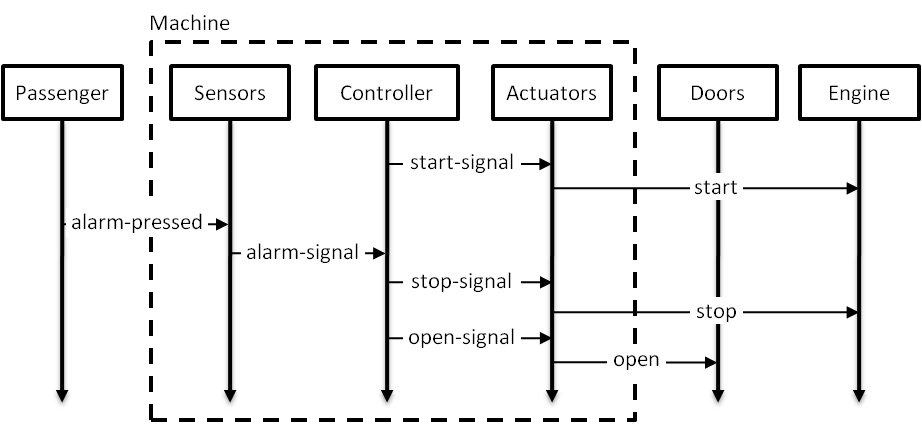
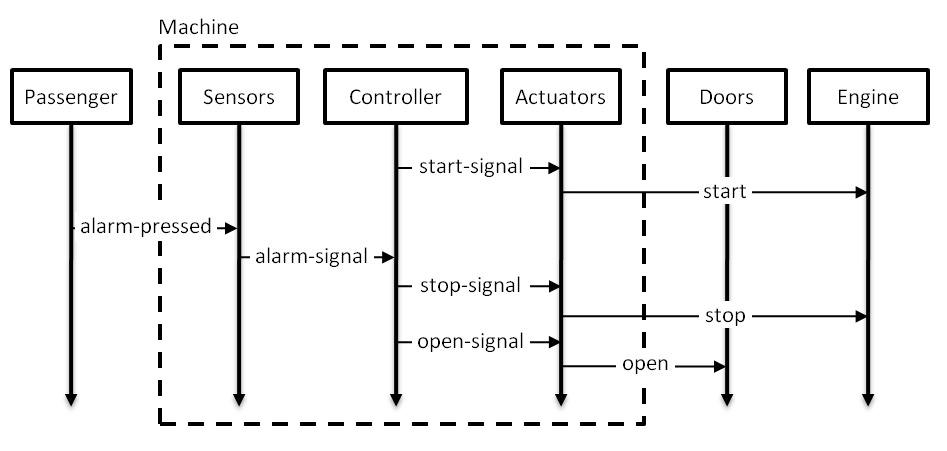
Added an illustration for negative scenarios

Changed region(s): [[0.0, 0.0305, 1.0, 1.0], [0.6681, 0.3052, 0.6985, 0.3357]]

diff --git a/writing/src/2-framework/main.tex b/writing/src/2-framework/main.tex
@@ -10,7 +10,7 @@ We use a simple train system fragment as running example for illustrating concep
 
 \begin{figure}[H]\centering
 \scalebox{0.75}{
-  \includegraphics{src/2-framework/images/train-scenario-all-agents}
+  \includegraphics[trim=2mm 2mm 2mm 2mm, clip]{src/2-framework/images/train-scenario-all-agents}
 }
 \caption{A scenario illustrating a train system stopping in emergency when an alarm is pressed.\label{image:train-scenario-all-agents}}
 \end{figure}
@@ -166,7 +166,15 @@ The first condition is not formalized but simply requires the MSC and the system
 
 \subsection{Negative scenarios}
 
-Positive message sequence charts model \emph{positive} examples of behavior that the system is expected to exhibit. It is often convenient to be able to model the counterpart, that is examples of behavior that the system is expected -- even required -- \emph{not} to exhibit. Such proscribed behaviors are illustrated with negative MSCs~\cite{Uchitel:2004}. A negative MSC is simply a scenario whose last event is proscribed, as depicted by a crossed arrow below a dashed line. An example is given in Fig.~\ref{X}, that shows that the \artifact{Controller} may not open train doors immediately after having started it.
+Positive message sequence charts model \emph{positive} examples of behavior that the system is expected to exhibit. It is often convenient to be able to model the counterpart, that is examples of behavior that the system is expected -- even required -- \emph{not} to exhibit. Such proscribed behaviors are illustrated with negative MSCs~\cite{Uchitel:2004}. A negative MSC is simply a scenario whose last event is proscribed, as depicted by a crossed arrow below a dashed line. An example is given in Fig.~\ref{image:train-negative-scenario}, where the \artifact{Controller} may not open train doors immediately after having started it.
+
+\vspace{0.4cm}
+\begin{figure}[H]\centering
+\scalebox{0.75}{
+  \includegraphics[trim=2mm 2mm 2mm 2mm, clip]{src/2-framework/images/train-negative-scenario}
+}
+\caption{A negative scenario illustrating that the controller may not open doors after having started.\label{image:train-negative-scenario}}
+\end{figure}
 
 More precisely, a negative MSC is a pair $(M,e)$ where $M$ is a positive MSC and $e$ is a single event (given our simplifying assumption, the latter event can simply be denoted by its label $l = label(e)$). The positive scenario $M$ is called the $precondition$ and $e$ the \emph{proscribed event}. The intuitive semantics is that, once the precondition has occurred from the system initial state, $e$ may not be the (very) \emph{next} event in the system. We make this semantics fully precise now. A negative MSC $N = (M,e)$ defines a set of traces as follows:
 
@@ -174,7 +182,7 @@ More precisely, a negative MSC is a pair $(M,e)$ where $M$ is a positive MSC and
 \mathcal{L}(N) = \{~w.l \mid w \in \mathcal{L}(M) \wedge l = label(e) \}
 \end{equation*}
 
-That is, traces of a negative MSC are traces of the precondition (given by definition~\ref{equation:msc-composition}) concatenated with the label of the proscribed event. Note that, such a definition implies that the precondition must occur completely for the proscribed event to be taken into account. In other words, partial orderings between the proscribed event and those in the precondition are not considered. This is the intended meaning of the dashed line separating them~\cite{Uchitel:2004}. 
+That is, traces of a negative MSC are traces of the precondition (given by definition~\ref{equation:msc-composition}) concatenated with the label of the proscribed event. Note that such a definition implies that the precondition must occur completely for the proscribed event to be taken into account. In other words, partial orderings between the proscribed event and those in the precondition are not considered. This is the intended meaning of the dashed line separating them~\cite{Uchitel:2004}. In contrast, note that all linearizations of the precondition are taken into account (even if the MSC of Fig.~\ref{image:train-negative-scenario} presents only one). 
 
 Similarly to positive MSCs, we state conditions for a negative MSC $N = (M,e)$ and a system $S = (Ag_1 \parallel \ldots \parallel Ag_n)$ to be consistent, as follows:
 
